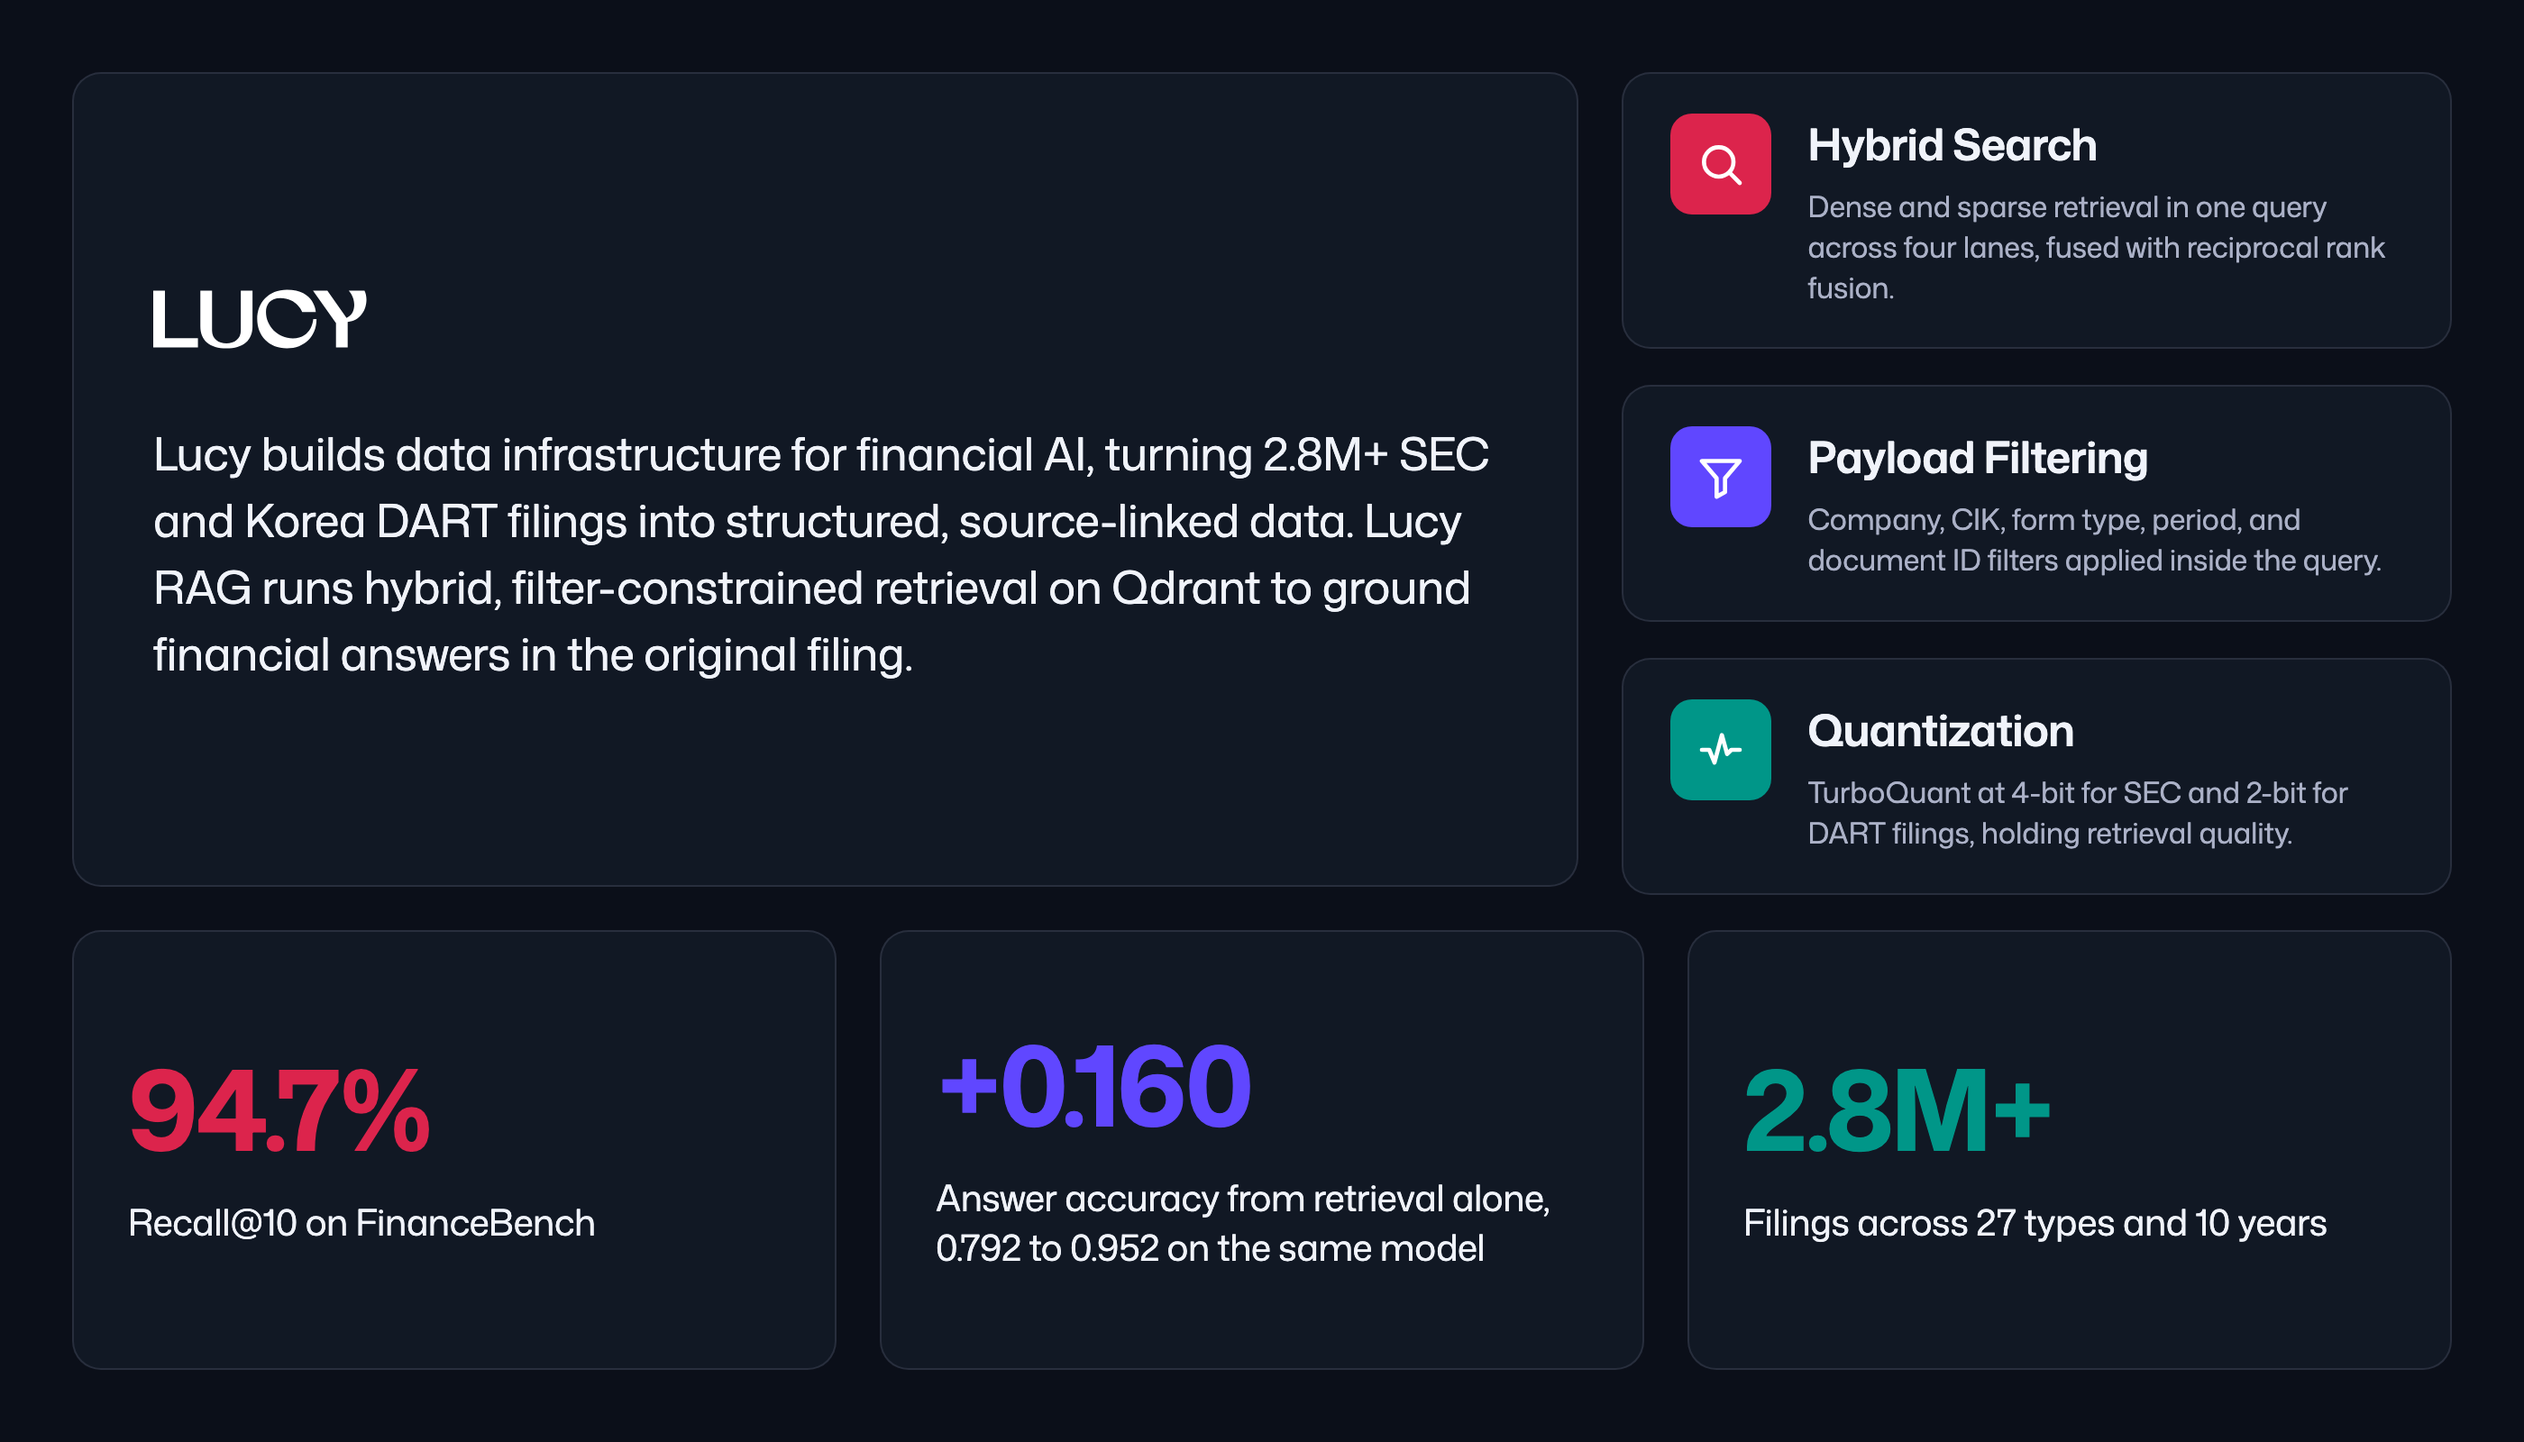
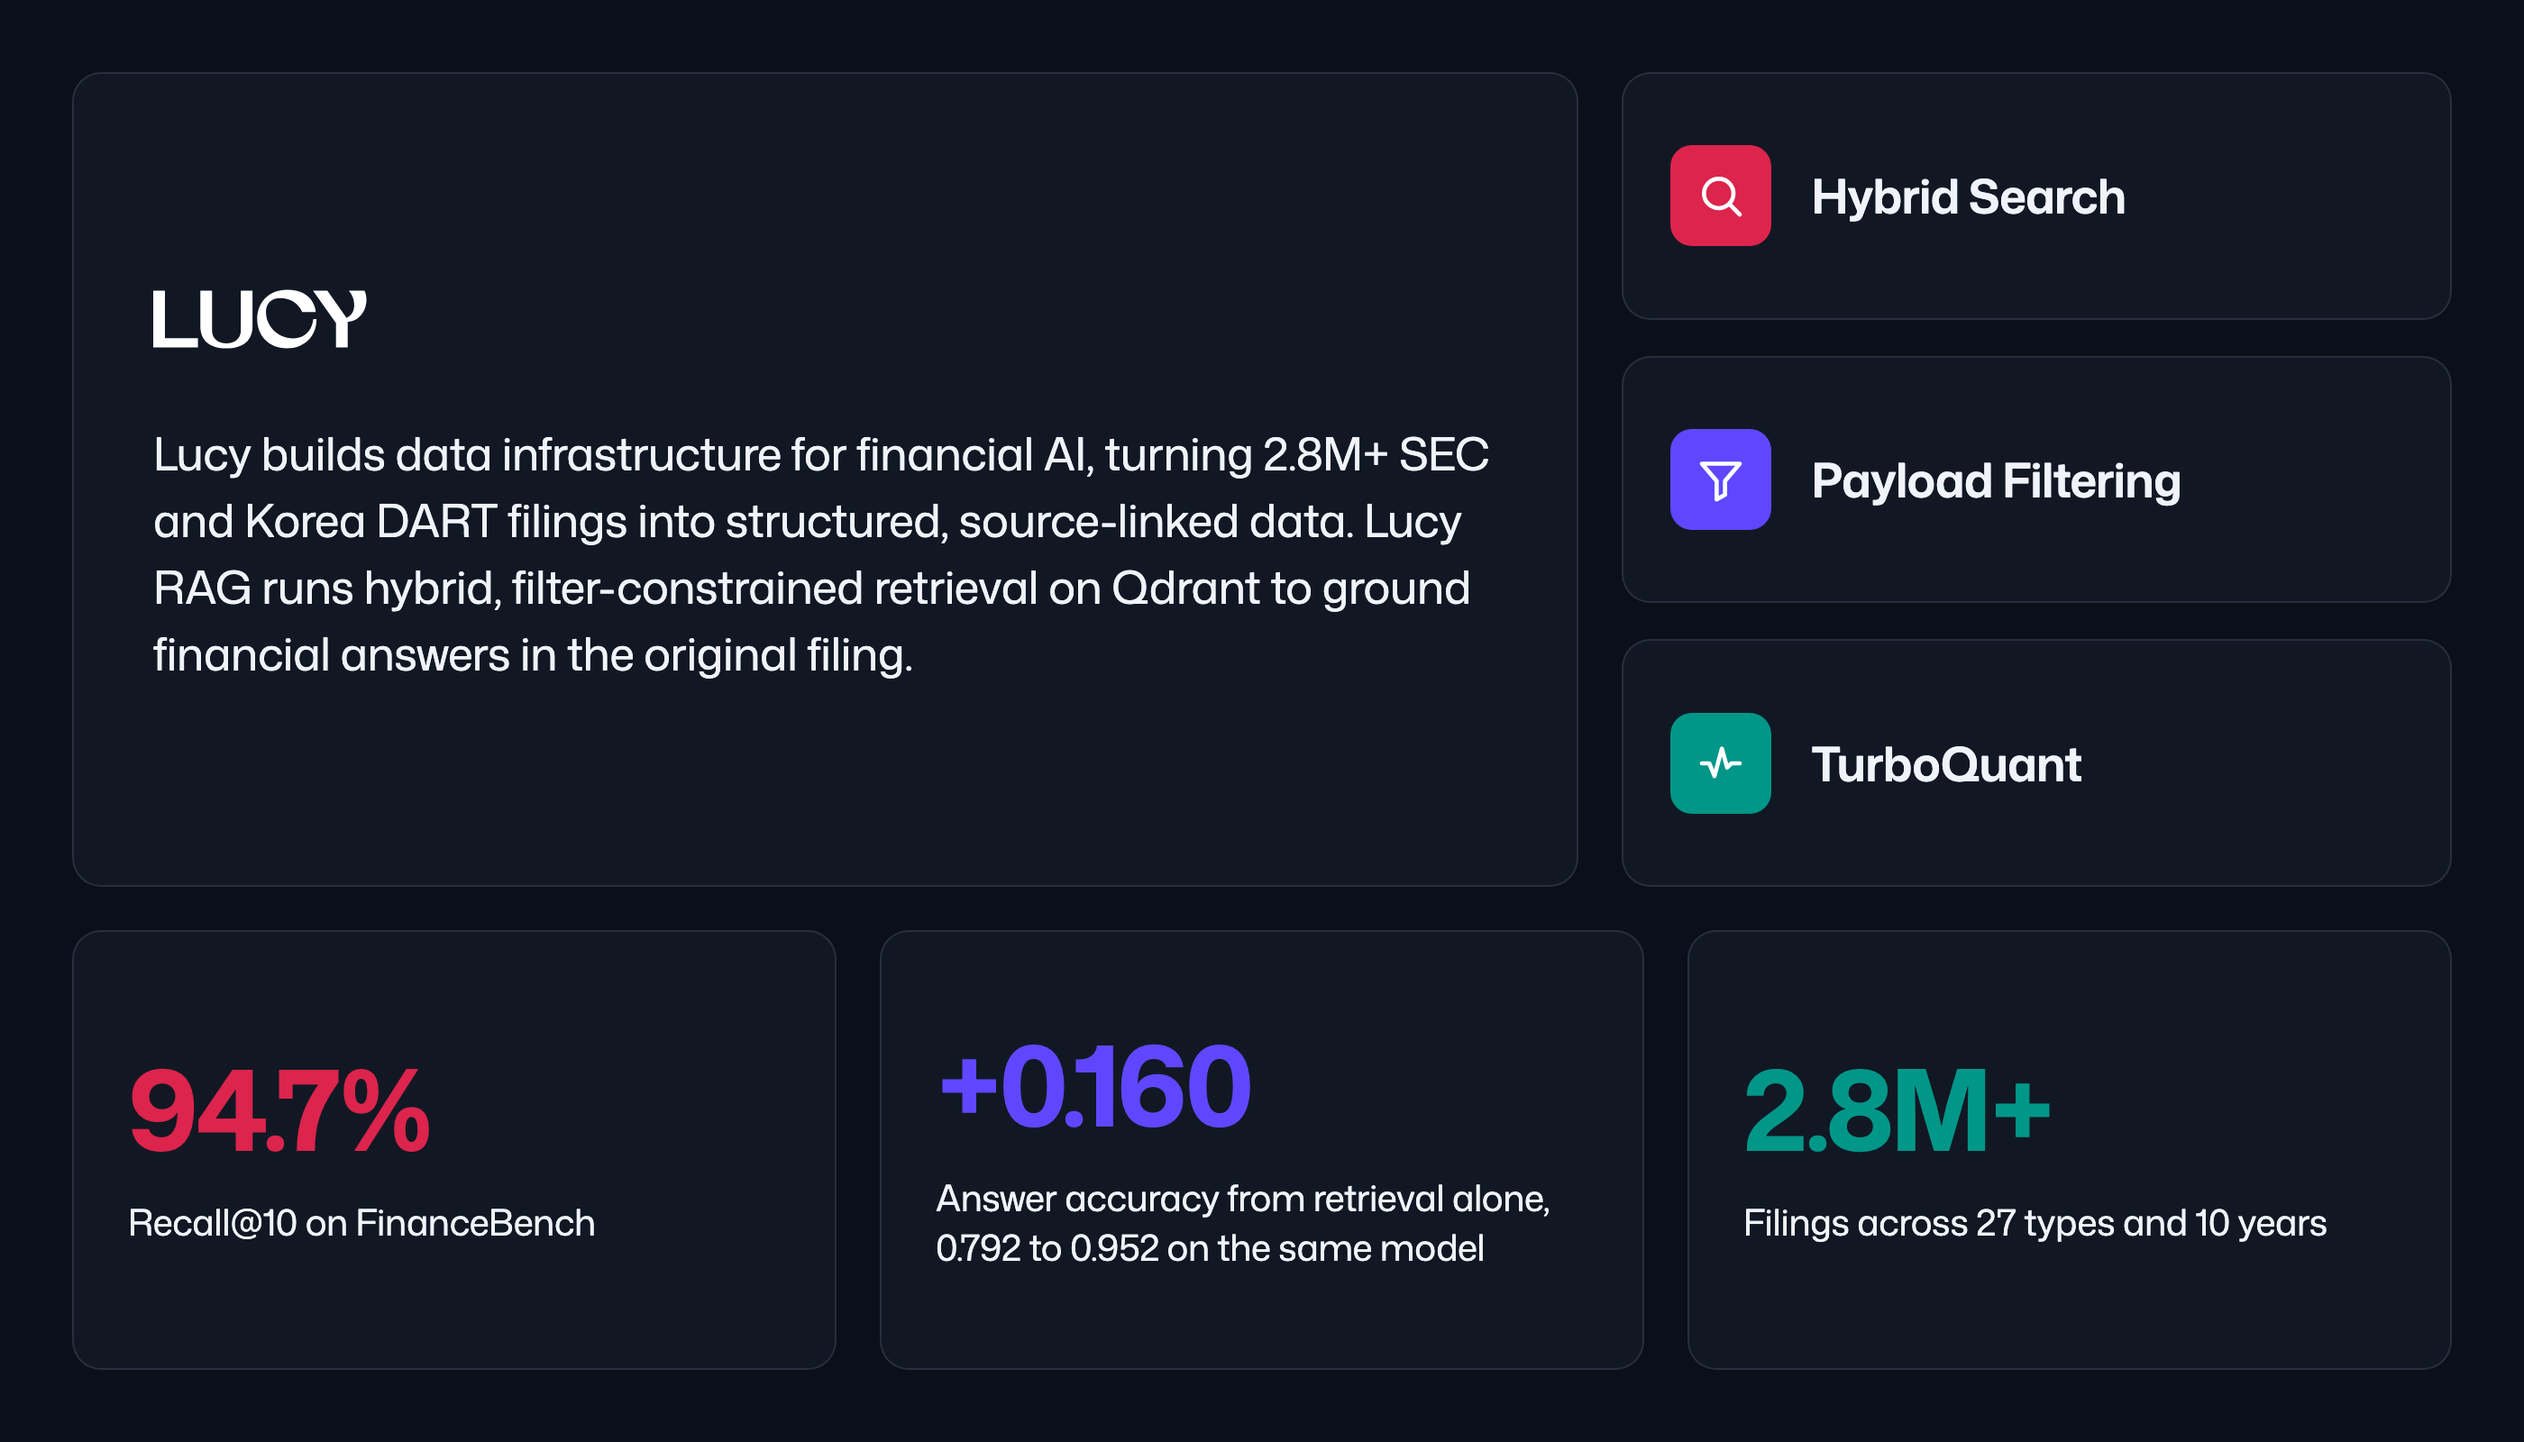
Apply review pass: charts, bento, diagram placement
- Bento box: drop the feature-box subtext and rename "Quantization" to
  "TurboQuant", back to the title-only pattern used by Bayer and Sapu.
- TurboQuant quality deltas move from prose into a table.
- Answer accuracy across context layers becomes a bar chart.
- Chunks per filing for SEC and DART becomes a grouped bar chart.
- Drop the "not yet formalized a metric" sentence.
- Move the architecture diagram directly under its own heading and
  re-render it at 3x (4200x2508).

Chart palette is Qdrant red and violet, validated against the dark
surface for lightness band, chroma, CVD separation, and contrast.

Changed region(s): [[0.6525, 0.0625, 0.9632, 0.25], [0.6525, 0.4688, 0.9321, 0.5938], [0.7146, 0.2812, 0.9321, 0.4062]]

diff --git a/qdrant-landing/content/blog/case-study-lucy.md b/qdrant-landing/content/blog/case-study-lucy.md
@@ -69,7 +69,14 @@ The third is cost as the corpus grows. New filings arrive continuously, so Lucy 
 
 Lucy evaluated TurboQuant on both corpora before committing to it. On its 10-K corpus at 1,536 dimensions, 4-bit TurboQuant cut the observed memory footprint from roughly 52 GB to 10.7 GB, a 4.9x reduction.
 
-The quality cost was small. Measuring without metadata filtering, dense-only retrieval moved by -0.8% Recall@20, -0.3% MRR, and -0.6% nDCG@20. Hybrid retrieval was effectively unchanged at +0.2% Recall@20, +0.1% MRR, and -0.1% nDCG@20, because the sparse side recovers what compression costs the dense side. On that basis Lucy runs 2-bit quantization on DART filings, where Korean text produces more chunks per filing and the higher compression ratio saves the most, and a more conservative 4-bit on SEC filings.
+The quality cost was small. Measured without metadata filtering:
+
+| Retrieval | Recall@20 | MRR | nDCG@20 |
+|---|:---:|:---:|:---:|
+| Dense only | -0.8% | -0.3% | -0.6% |
+| Hybrid (dense + BM25, RRF) | +0.2% | +0.1% | -0.1% |
+
+Hybrid retrieval was effectively unchanged, because the sparse side recovers what compression costs the dense side. On that basis Lucy runs 2-bit quantization on DART filings, where Korean text produces more chunks per filing and the higher compression ratio saves the most, and a more conservative 4-bit on SEC filings.
 
 ## Recall Above 94% on FinanceBench, and a 0.16 Answer Accuracy Gain From Retrieval Alone
 
@@ -82,7 +89,11 @@ Lucy evaluates its retrieval layer against two public finance benchmarks.
 
 The more telling test isolates retrieval from the answer model. Holding the answer model fixed (Claude Fable 5) and changing only the context layer, RAGAS Answer Accuracy moved from 0.792 with general web search context to 0.952 with Lucy RAG context, a gain of 0.160 attributable to retrieval alone.
 
-That result also reframes the cost question. In a separate evaluation, an open-weight Gemma model paired with Lucy RAG scored 0.863 on answer accuracy, while several frontier models using web search scored 0.845, 0.792, and 0.786. A small model grounded in the right filing chunks beat larger models searching the open web.
+That result also reframes the cost question. In a separate evaluation, an open-weight Gemma model paired with Lucy RAG outscored every frontier model running on web search context.
+
+![RAGAS Answer Accuracy by context layer: an open-weight Gemma model on Lucy RAG context scores 0.863, ahead of three frontier models on web search context at 0.845, 0.792, and 0.786](/blog/case-study-lucy/chart-answer-accuracy.png)
+
+A small model grounded in the right filing chunks beat larger models searching the open web.
 
 {{< quote
   text="Frontier models can be expensive and slower for this type of workload. We found that with a strong RAG system, even a smaller open-source model can produce very competitive results."
@@ -90,17 +101,17 @@ That result also reframes the cost question. In a separate evaluation, an open-w
   role="Co-Founder"
   company="Lucy" >}}
 
-For Lucy's customers, the payoff is an answer that cites the chunk it came from and highlights the matching passage in the original filing, so an analyst can verify the number before acting on it. The team has not yet formalized a metric like analyst hours saved. The clearest benefit so far is the time it takes to find and verify the right disclosure across a large volume of filings.
+For Lucy's customers, the payoff is an answer that cites the chunk it came from and highlights the matching passage in the original filing, so an analyst can verify the number before acting on it. The clearest benefit so far is the time it takes to find and verify the right disclosure across a large volume of filings.
 
 ## How Lucy RAG Routes a Question Through Qdrant
+
+![Lucy RAG architecture: a router resolves the entity, CIK, and exact filing, then passes payload filters into Qdrant, where four lanes each run the same dense-plus-sparse hybrid query. Reciprocal rank fusion and deduplication reduce the candidates to the top 20 chunks, which the answer model turns into a source-linked answer](/blog/case-study-lucy/lucy-rag-architecture.png)
 
 A query enters Lucy RAG through a router whose first job is to determine which company and which filing the user means. It checks Lucy's catalog database, resolves the entity and CIK, and pins the exact document by SEC accession number or DART listing number. If the question is ambiguous, the router asks the user to clarify before retrieval runs.
 
 Once the target is known, the router passes metadata filters (company, form type, date range, and document ID) to Qdrant, which serves as the main retrieval path. Retrieval runs across four lanes, each executing the same dense-plus-sparse hybrid query with the same filters.
 
 The narrow lane runs focused multi-query retrieval with section filters for precision. The broad lane searches more widely as a safety net for recall and always runs alongside the narrow lane. The XBRL lane runs only for questions about financial statements or figures, adding the relevant XBRL tags to pull the right financial table higher in the ranking. The companion lane runs when a filing incorporates another by reference, for example a DEF 14A proxy statement referenced from a 10-K.
-
-![Lucy RAG architecture: a router resolves the entity, CIK, and exact filing, then passes payload filters into Qdrant, where four lanes each run the same dense-plus-sparse hybrid query. Reciprocal rank fusion and deduplication reduce the candidates to the top 20 chunks, which the answer model turns into a source-linked answer](/blog/case-study-lucy/lucy-rag-architecture.png)
 
 Each active lane returns up to 60 candidates. Lucy fuses the ranked lists with RRF, deduplicates them, and passes the final top 20 chunks to the answer model. A supplementary knowledge base in Amazon S3 holds preprocessed summaries and key financial facts for each filing, which the pipeline selects by topic and adds as extra context. The team is also adding a Neo4j graph layer to capture relationships between filings, starting with amendments.
 
@@ -127,7 +138,9 @@ The two corpora use different dense models and share a sparse one.
 | SEC | OpenAI `text-embedding-3-small`, 1,536 dimensions | BM25 |
 | DART | Upstage `solar-embedding-2`, 1,024 dimensions | BM25 |
 
-Chunk counts differ by corpus as well. SEC filings average 194 chunks each (P25 91, P75 236, P90 373). DART filings average 418 (P25 178, P75 520, P90 846), because Korean text produces higher token counts under Lucy's current tokenization and chunking setup. That difference is part of why DART gets the more aggressive 2-bit quantization.
+Chunk counts differ by corpus as well, because Korean text produces higher token counts under Lucy's current tokenization and chunking setup. That difference is part of why DART gets the more aggressive 2-bit quantization.
+
+![Chunks per filing for SEC and DART at P25, average, P75, and P90. SEC runs 91, 194, 236, and 373; DART runs 178, 418, 520, and 846, roughly double at every point in the distribution](/blog/case-study-lucy/chart-chunks-per-filing.png)
 
 The collection layout took a round of iteration to get right, and it is the clearest lesson from Lucy's scaling experience. The team initially stored every SEC filing type in a single collection and prefixed each chunk with metadata such as company name, ticker, and report date. That worked at small scale. As coverage expanded, retrieval latency rose by roughly 2x to 3x and recall declined.
 
